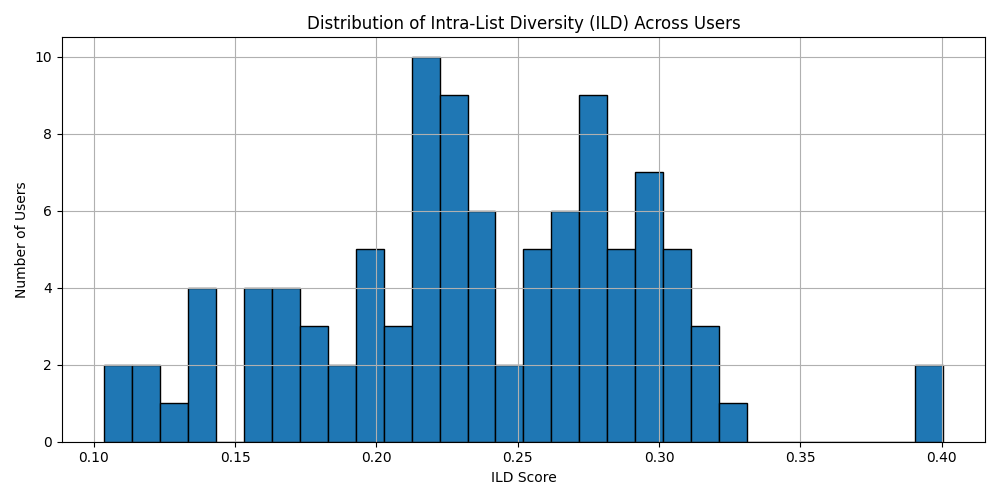
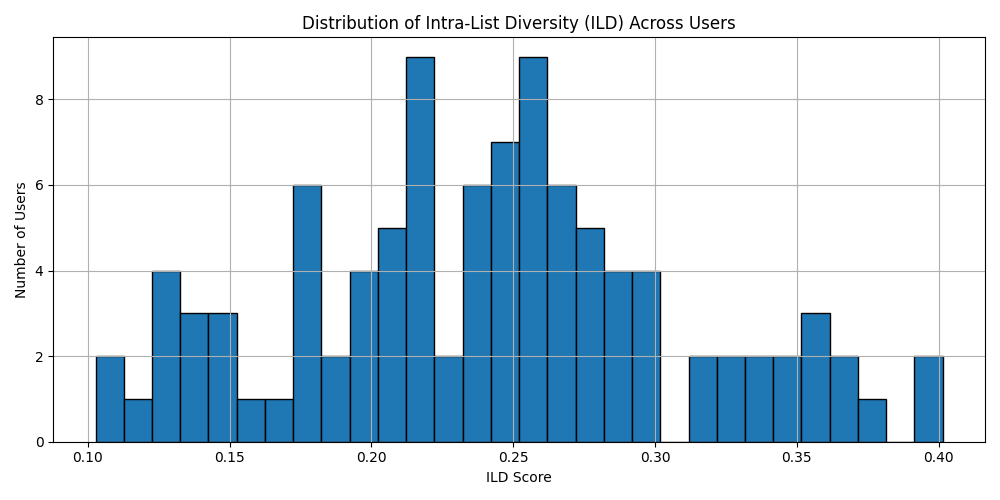
changed jaccard to entropy measure

diff --git a/shiny_app/diveristy_measure.py b/shiny_app/diveristy_measure.py
@@ -4,30 +4,25 @@ import numpy as np
 import pandas as pd
 from pathlib import Path
 import matplotlib.pyplot as plt
+from scipy.stats import entropy
 
 # Load your user data
 user_data = pd.read_csv(Path(__file__).parent / "data/synthetic_user_data.csv")
 
-def jaccard_distance(set1, set2):
-    if not set1 and not set2:
-        return 0.0
-    return 1 - len(set1 & set2) / len(set1 | set2)
+def genre_entropy(genre_list):
+    genre_counts = pd.Series(genre_list).value_counts(normalize=True)
 
-def combined_intra_list_diversity(feature_list, genre_list, weight=0.5):
-    """
-    weight: between 0 (genre only) and 1 (audio only)
-    """
+    print(entropy(genre_counts))
+    return entropy(genre_counts)
+
+def audio_only_intra_list_diversity(feature_list):
     if len(feature_list) < 2:
         return 0.0
 
     distances = []
     for (i, j) in combinations(range(len(feature_list)), 2):
         audio_d = cosine(feature_list[i], feature_list[j])
-        genre_d = jaccard_distance(genre_list[i], genre_list[j])
-
-        # weigh audio features against genres
-        combined = weight * audio_d + (1 - weight) * genre_d
-        distances.append(combined)
+        distances.append(audio_d)
 
     return np.mean(distances) if distances else 0.0
 
@@ -41,19 +36,30 @@ user_data_filtered = user_data.dropna(subset=audio_cols)
 
 user_ild_scores = []
 
-# Get ILD
 for user_id, group in user_data_filtered.groupby('user_id'):
     audio = group[audio_cols].values
-    genres = group['track_genre'].fillna('').map(lambda g: {g.lower()}).tolist()
-    ild = combined_intra_list_diversity(audio, genres, weight=0.6)
-    user_ild_scores.append({'user_id': user_id, 'ild': ild})
+    genres = group['track_genre'].fillna('').str.lower().tolist()
 
-# Create the dataframe
+    audio_div = audio_only_intra_list_diversity(audio)
+    genre_div = genre_entropy(genres)
+
+    user_ild_scores.append({
+        'user_id': user_id,
+        'audio_ild': audio_div,
+        'genre_entropy': genre_div
+    })
+
 ild_df = pd.DataFrame(user_ild_scores)
+
+ild_df['genre_entropy_norm'] = ild_df['genre_entropy'] / ild_df['genre_entropy'].max()
+
+weight = 0.6
+ild_df['combined_ild'] = weight * ild_df['audio_ild'] + (1 - weight) * ild_df['genre_entropy_norm']
+
 
 # Plot ILD Distribution
 plt.figure(figsize=(10, 5))
-plt.hist(ild_df['ild'], bins=30, edgecolor='black')
+plt.hist(ild_df['combined_ild'], bins=30, edgecolor='black')
 plt.title('Distribution of Intra-List Diversity (ILD) Across Users')
 plt.xlabel('ILD Score')
 plt.ylabel('Number of Users')
